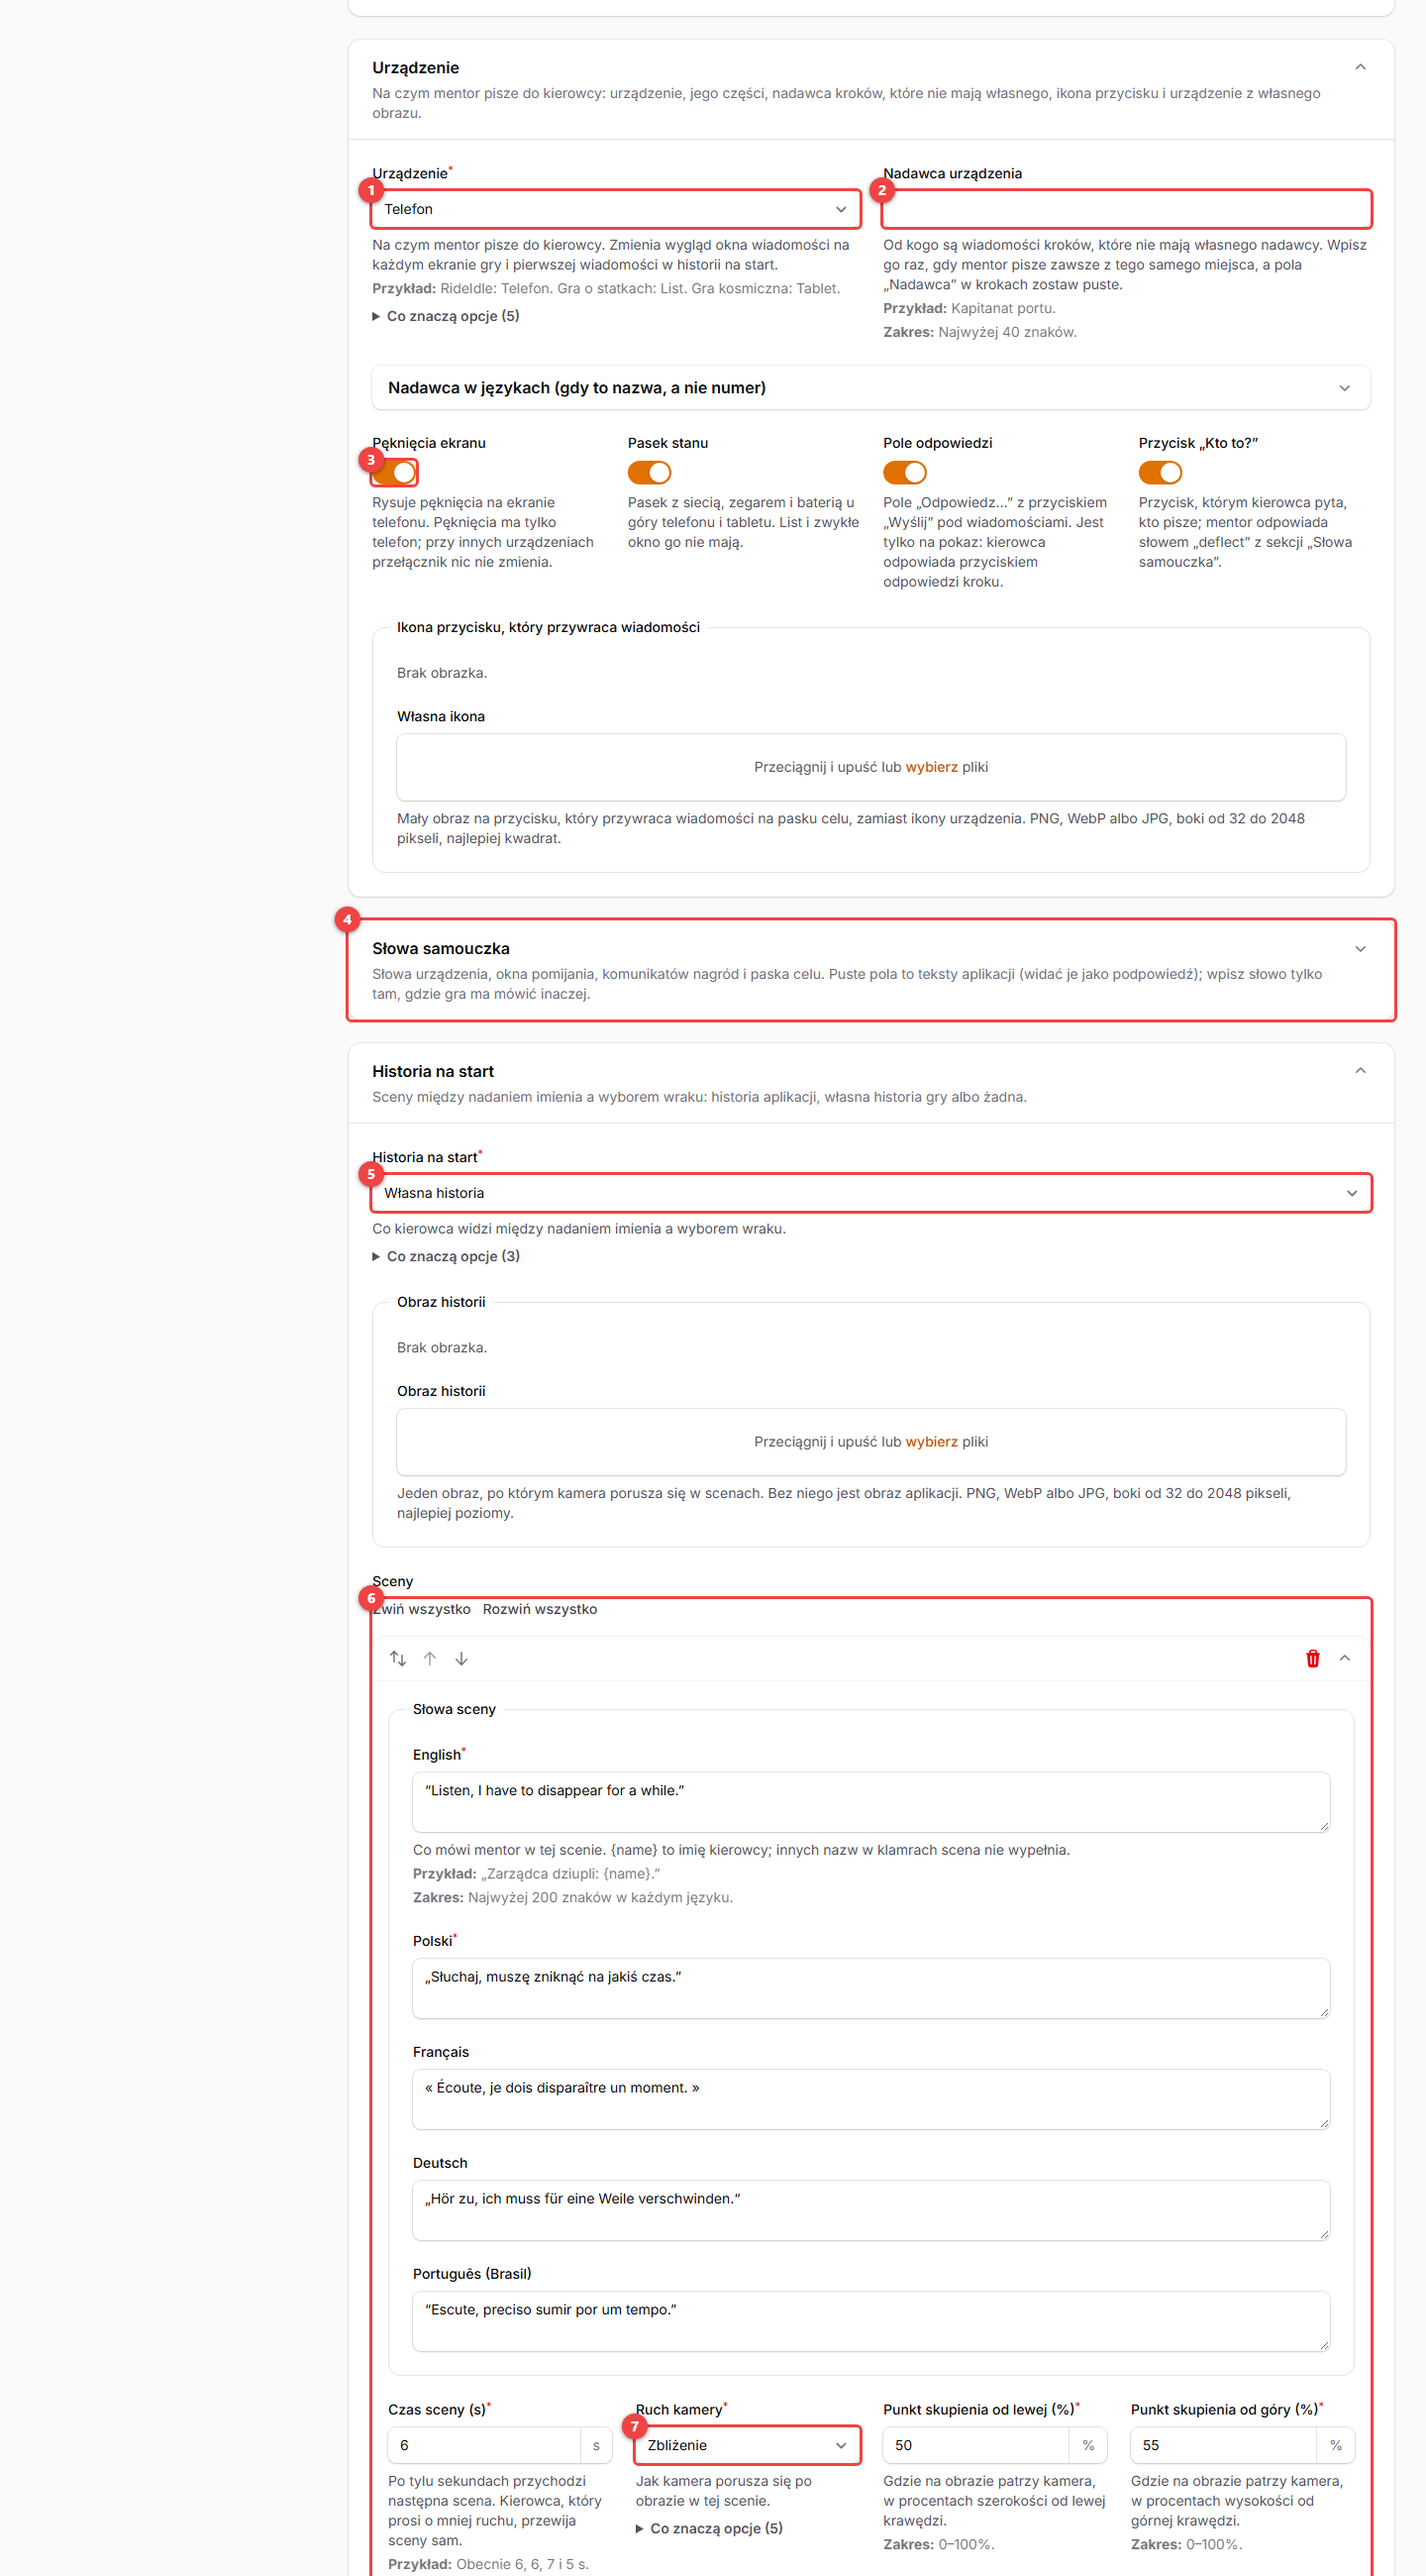
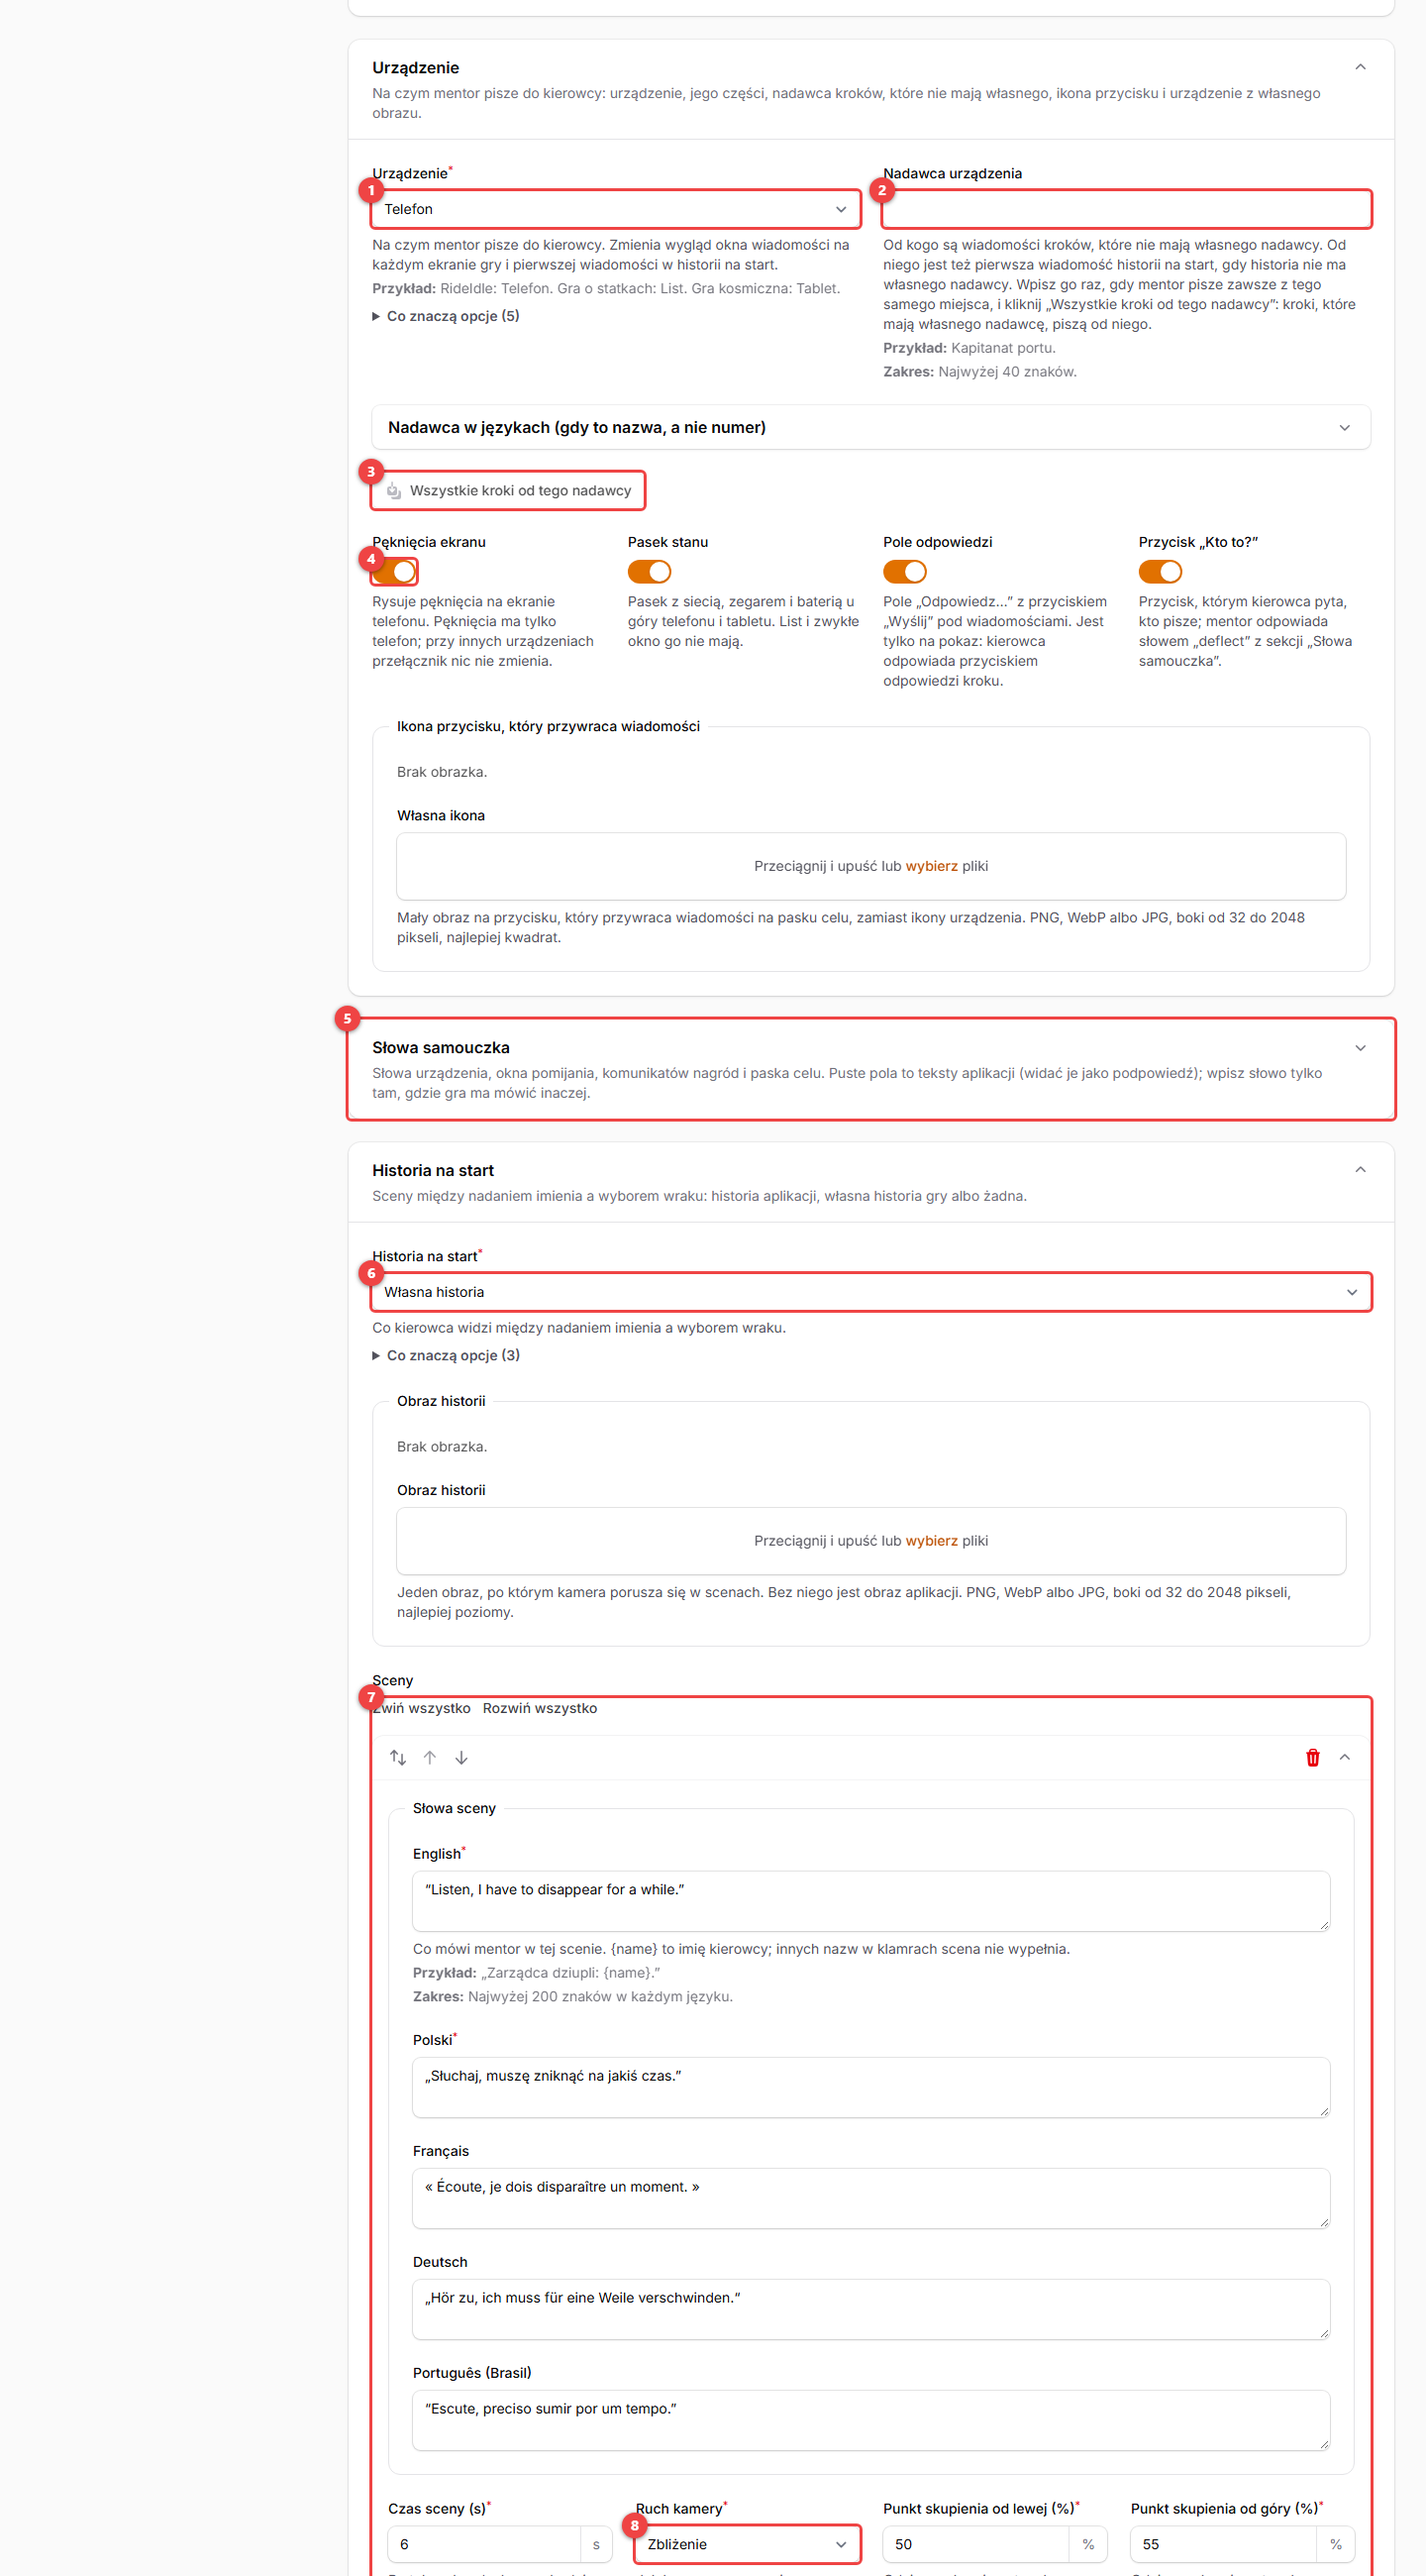
docs: the sender of the device in every step and in the story, with the new screenshot of the manual

Changed region(s): [[0.2188, 0.0935, 0.9688, 1.0], [0.9062, 0.6542, 0.9375, 0.6854], [0.4375, 0.2804, 0.4688, 0.3115]]

diff --git a/docs/podrecznik-panelu.md b/docs/podrecznik-panelu.md
@@ -487,7 +487,7 @@ Menu Treść → Samouczek. Góra strony to ustawienia pierwszego przejazdu (pal
 
 Każda gra ma własny samouczek: RideIdle pisze z pękniętego telefonu, gra o statkach może pisać listy, a gra kosmiczna z tabletu albo z urządzenia narysowanego przez grę. Między ustawieniami pierwszego przejazdu a krokami są trzy sekcje:
 
-- **Urządzenie.** Na czym mentor pisze: telefon, list, tablet, zwykłe okno w kolorach gry albo **własny obraz** (wgrywasz obraz ramki z przezroczystym miejscem na ekran i podajesz, ile procent obrazu zostaje od ekranu do każdej krawędzi). Przełączniki wyłączają części urządzenia (pęknięcia ekranu, pasek sieci i baterii, pole odpowiedzi, przycisk „Kto to?”). **Nadawca urządzenia** to nadawca kroków, które nie mają własnego: wpisz go raz, gdy mentor pisze zawsze z tego samego miejsca. **Ikona** to mała ikona na pasku celu (bez niej gra rysuje ikonę urządzenia).
+- **Urządzenie.** Na czym mentor pisze: telefon, list, tablet, zwykłe okno w kolorach gry albo **własny obraz** (wgrywasz obraz ramki z przezroczystym miejscem na ekran i podajesz, ile procent obrazu zostaje od ekranu do każdej krawędzi). Przełączniki wyłączają części urządzenia (pęknięcia ekranu, pasek sieci i baterii, pole odpowiedzi, przycisk „Kto to?”). **Nadawca urządzenia** to nadawca kroków, które nie mają własnego, i pierwszej wiadomości historii, gdy historia nie ma własnego. Krok z własnym nadawcą pisze od niego (tak RideIdle zmienia numer w każdym kroku), więc gdy mentor ma pisać zawsze od tego samego nadawcy, wpisz go i kliknij **„Wszystkie kroki od tego nadawcy”**: przycisk czyści pole „Nadawca” we wszystkich krokach i w historii, a „Zapisz szkic” to zachowuje. **Ikona** to mała ikona na pasku celu (bez niej gra rysuje ikonę urządzenia).
 - **Słowa samouczka.** Każdy komunikat samouczka aplikacji (sieć, „Kto to?”, odpowiedź mentora, „Wyślij”, okno pomijania, komunikaty nagród, pasek celu) w pięciu językach. Puste pole to tekst aplikacji, który widać jako podpowiedź; nazwy w klamrach (`{cash}`) muszą zostać. Te słowa nie są już na stronie Słownik.
 - **Historia na start.** Co gracz widzi między nadaniem imienia a wyborem wraku: **historia aplikacji** (cztery sceny RideIdle), **własna historia** (obraz, od jednej do sześciu scen z czasem, ruchem kamery i punktem skupienia, pierwsza wiadomość i słowa ekranu) albo **bez historii** (gracz od razu wybiera wrak; sceny zostają w dokumencie na później). `{name}` w tekście sceny to imię gracza.
 
@@ -497,12 +497,13 @@ Nadawca kroku to teraz dowolny tekst (numer, nazwa, znak wywoławczy), najwyżej
 
 <!-- legenda:samouczek-urzadzenie -->
 1. **Urządzenie.** Na czym mentor pisze do kierowcy. Zmienia wygląd okna wiadomości na każdym ekranie gry i pierwszej wiadomości w historii na start. Przykład: RideIdle: Telefon. Gra o statkach: List. Gra kosmiczna: Tablet.
-2. **Nadawca urządzenia.** Od kogo są wiadomości kroków, które nie mają własnego nadawcy. Wpisz go raz, gdy mentor pisze zawsze z tego samego miejsca, a pola „Nadawca” w krokach zostaw puste. Zakres: Najwyżej 40 znaków. Przykład: Kapitanat portu.
-3. **Pęknięcia ekranu.** Rysuje pęknięcia na ekranie telefonu. Pęknięcia ma tylko telefon; przy innych urządzeniach przełącznik nic nie zmienia.
-4. **Słowa samouczka.** Rozwiń, żeby powiedzieć słowa samouczka po swojemu; puste pole to tekst aplikacji.
-5. **Historia na start.** Co kierowca widzi między nadaniem imienia a wyborem wraku.
-6. **Sceny.** Od jednej do sześciu scen, w kolejności. Każda zostaje na ekranie przez swój czas albo do dotknięcia; w ostatniej przychodzi pierwsza wiadomość. Zakres: 1–6 scen. Przykład: RideIdle: 4 sceny, razem 24 s.
-7. **Ruch kamery.** Jak kamera porusza się po obrazie w tej scenie.
+2. **Nadawca urządzenia.** Od kogo są wiadomości kroków, które nie mają własnego nadawcy. Od niego jest też pierwsza wiadomość historii na start, gdy historia nie ma własnego nadawcy. Wpisz go raz, gdy mentor pisze zawsze z tego samego miejsca, i kliknij „Wszystkie kroki od tego nadawcy”: kroki, które mają własnego nadawcę, piszą od niego. Zakres: Najwyżej 40 znaków. Przykład: Kapitanat portu.
+3. **Wszystkie kroki od tego nadawcy.** Czyści pole „Nadawca” we wszystkich krokach i w historii, więc wszędzie pisze nadawca urządzenia; działa, gdy nadawca urządzenia jest wpisany.
+4. **Pęknięcia ekranu.** Rysuje pęknięcia na ekranie telefonu. Pęknięcia ma tylko telefon; przy innych urządzeniach przełącznik nic nie zmienia.
+5. **Słowa samouczka.** Rozwiń, żeby powiedzieć słowa samouczka po swojemu; puste pole to tekst aplikacji.
+6. **Historia na start.** Co kierowca widzi między nadaniem imienia a wyborem wraku.
+7. **Sceny.** Od jednej do sześciu scen, w kolejności. Każda zostaje na ekranie przez swój czas albo do dotknięcia; w ostatniej przychodzi pierwsza wiadomość. Zakres: 1–6 scen. Przykład: RideIdle: 4 sceny, razem 24 s.
+8. **Ruch kamery.** Jak kamera porusza się po obrazie w tej scenie.
 <!-- /legenda -->
 
 **Przez asystenta AI:** zaznacz „Samouczek” w Moście AI (rozdział 17). Asystent zmieni urządzenie, nadawców, teksty kroków, słowa i sceny oraz doda nowy krok, ale nie usunie kroku, nie zmieni kolejności i nie wgra obrazu.

diff --git a/docs/web-run.md b/docs/web-run.md
@@ -180,7 +180,7 @@ Przyspieszona podróż (krok P2 płatnych funkcji): na arkuszu miasta, obok „J
 - **Części.** `parts.crack`, `parts.status_bar`, `parts.input` i `parts.who` wyłączają pęknięcia, pasek sieci, pole odpowiedzi i przycisk „Kto to?”. Serwer, który nic nie mówi o `messenger`, oznacza stary telefon ze wszystkimi częściami (`PHONE` w `stores/tutorial.ts`).
 - **Słowa** (sieć, „Kto to?”, odpowiedź mentora, „Wyślij”, komunikaty nagród, pasek celu) przychodzą ze słowami gry (`GET /meta/vocabulary`, gdzie serwer dokłada `labels` samouczka), więc ekrany się nie zmieniły. Przeglądarka trzyma słowa przez 60 s (nagłówek odpowiedzi), więc zmiana słowa jest widoczna najpóźniej minutę po publikacji.
 - **Pasek celu** ma przed „Krok 4 z 20” małą ikonę urządzenia (telefon, koperta, tablet, ramka, dymek) albo ikonę, którą gra podała (`TutorialDeviceIcon.vue`).
-- **Historia** (`StoryView`) pyta `GET /tutorial/story`: sceny gry na jej obrazie, z gotowymi ruchami kamery (`zoom-in`, `zoom-out`, `pan-left`, `pan-right`, `still`, te same ruchy co w historii RideIdle) i punktem skupienia; `{name}` w tekście to imię kierowcy, a pierwsza wiadomość ma wygląd urządzenia (dymek telefonu, karteczka, wiersz konsoli, dymek okna). `builtin` to dawna historia aplikacji, a gra bez historii (`enabled: false`) przechodzi od razu do wyboru wraku. Gdy serwer nie odpowiada, aplikacja opowiada swoją historię. RideIdle ma swoją historię w treści z ruchami kamery z listy, więc trzecia scena (warsztat) zaczyna z bliższego kadru niż przedtem (z 1,2 zamiast 1,35); reszta jest jak dawniej.
+- **Historia** (`StoryView`) pyta `GET /tutorial/story`: sceny gry na jej obrazie, z gotowymi ruchami kamery (`zoom-in`, `zoom-out`, `pan-left`, `pan-right`, `still`, te same ruchy co w historii RideIdle) i punktem skupienia; `{name}` w tekście to imię kierowcy, a pierwsza wiadomość ma wygląd urządzenia (dymek telefonu, karteczka, wiersz konsoli, dymek okna). `builtin` to dawna historia aplikacji (jej pierwsza wiadomość jest od nadawcy urządzenia, gdy gra go ustawiła, a inaczej z numeru +48 555 010 112), a gra bez historii (`enabled: false`) przechodzi od razu do wyboru wraku. Gdy serwer nie odpowiada, aplikacja opowiada swoją historię. RideIdle ma swoją historię w treści z ruchami kamery z listy, więc trzecia scena (warsztat) zaczyna z bliższego kadru niż przedtem (z 1,2 zamiast 1,35); reszta jest jak dawniej.
 - **Sprawdzone w przeglądarce** (telefon 375 px, prawdziwe API na kopii bazy i na kopii treści, nowy kierowca): historia z treści (4 sceny, pierwsza wiadomość w ostatniej), telefon RideIdle bez zmian, list z nadawcą „Kapitanat portu” i słowem gry „Kim jesteś?”, tablet z „DOWÓDZTWO FLOTY”, zwykłe okno i ramka gry (przykładowe radio z przezroczystym ekranem w magazynie obrazów). **Nie sprawdzono:** historii na liście i tablecie w przeglądarce (są w testach), szerokiego ekranu i innych języków niż polski.
 - **Testy.** `TutorialDevice.spec.ts` (8: telefon bez `messenger`, list, tablet i okno z nadawcą, wiadomościami i przyciskami, wyłączone części, ramka gry i powrót do okna, odpowiedź z listu, ikona na pasku celu) i dwa nowe w `StoryView.spec.ts` (historia gry z `{name}`, obrazem, kadrem i pierwszą wiadomością na liście; gra bez historii); cały zestaw web: 1697 testów przeszło.
 

diff --git a/docs/api-runs.md b/docs/api-runs.md
@@ -1284,7 +1284,7 @@ Projekt D1–D11 zatwierdził właściciel („Zatwierdzam”, `docs/samouczek-p
 - **Słowa samouczka.** `Vocabulary::fromSource` dokłada `labels` samouczka do słów gry jako `tutorial.*` i `story.*`, a słowa samouczka **wygrywają ze Słownikiem**, więc aplikacja dostaje je zwykłym `GET /meta/vocabulary` i niczego nie zmienia w ekranach. Wpis `tutorial.*` albo `story.*` w Słowniku daje teraz ostrzeżenie, że te słowa ustawia się na stronie Samouczek.
 - **Walidator** (`checkTutorialDocument`, przy paczce i przy szkicu): nadawca kroku z SMS-ami; długość wiadomości na urządzeniu (do 200 znaków, w liście do 400; schemat wpuszcza 400); `labels` to komunikaty, które aplikacja ma, i wypełniają te same `{nazwy}` (to samo sprawdzenie co w Słowniku, `checkMessageTexts`); scena wypełnia tylko `{name}`; obrazy samouczka, których nie ma w magazynie, dają ostrzeżenie, a paczka (bundle) je niesie (`TutorialSteps::pictures`, `ContentImages::namesIn`). Brakujące tłumaczenia nadawców, scen, pierwszej wiadomości i słów dają ostrzeżenia jak reszta tekstów.
 - **`GET /tutorial`** ma teraz `messenger`: `device`, `parts` (cztery prawdy/fałsze), `icon_url`, `frame_url` i `screen` (albo `null`). `current.sender` jest w języku kierowcy i bierze nadawcę `messenger`, gdy krok nie ma swojego.
-- **`GET /tutorial/story`** (nowy, z tokenem, `no-store`): `enabled`, `builtin` (prawda, gdy dokument nie mówi o historii), `picture_url`, `scenes[]` (`text` w języku kierowcy z `{name}` do wypełnienia przez aplikację, `ms`, `camera`, `focus`), `sender`, `sms` i `messenger`.
+- **`GET /tutorial/story`** (nowy, z tokenem, `no-store`): `enabled`, `builtin` (prawda, gdy dokument nie mówi o historii), `picture_url`, `scenes[]` (`text` w języku kierowcy z `{name}` do wypełnienia przez aplikację, `ms`, `camera`, `focus`), `sender` (nadawca historii, a gdy historia go nie ma, nadawca `messenger`; przy `builtin` to nadawca `messenger` albo `null`, wtedy aplikacja pisze ze swojego numeru), `sms` i `messenger`.
 - **Testy.** `tests/Feature/Tutorial/TutorialMessengerTest.php` (13: nadawca z `messenger` w języku kierowcy, urządzenie, części, ramka i ekran, historia gry, historia aplikacji i gra bez historii, słowa samouczka ponad Słownikiem, walidator: dowolny nadawca, brak nadawcy, 200/400 znaków, nieznane słowo i złe `{nazwy}`, `{city}` w scenie, ramka wymagana i brak obrazu w magazynie, ostrzeżenie Słownika) i poprawiony `TutorialTest` (pole `messenger`).
 
 ## Bonusy części, czyli dostrajanie (etap B0, 2026-11-02)
